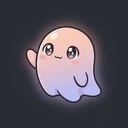
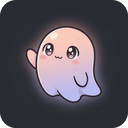
Press artist/album to go to page
v3.4.3
Slightly edited macOS icon
Also fixed issue where sound wave would keep moving despite music not playing

diff --git a/lib/presentation/screens/player_screen.dart b/lib/presentation/screens/player_screen.dart
@@ -1,6 +1,7 @@
 import 'dart:io';
 import 'dart:ui';
 import 'package:flutter/foundation.dart';
+import 'package:flutter/gestures.dart';
 import 'package:flutter/material.dart';
 import 'package:flutter/rendering.dart';
 import 'package:just_audio/just_audio.dart';
@@ -12,6 +13,7 @@ import 'package:flutter_riverpod/flutter_riverpod.dart';
 import '../../models/song.dart';
 import '../../providers/providers.dart';
 import '../widgets/next_up_sheet.dart';
+import 'song_list_screen.dart';
 
 class PositionData {
   final Duration position;
@@ -38,12 +40,16 @@ class _PlayerScreenState extends ConsumerState<PlayerScreen> {
   final ScrollController _lyricsScrollController = ScrollController();
   final GlobalKey _lyricsContainerKey = GlobalKey();
   int _currentLyricIndex = -1;
+  late TapGestureRecognizer _artistRecognizer;
+  late TapGestureRecognizer _albumRecognizer;
 
   AudioPlayer get player => ref.read(audioPlayerManagerProvider).player;
 
   @override
   void initState() {
     super.initState();
+    _artistRecognizer = TapGestureRecognizer();
+    _albumRecognizer = TapGestureRecognizer();
     player.sequenceStateStream.listen((state) {
       final tag = state.currentSource?.tag;
       final String? songId = tag is MediaItem ? tag.id : null;
@@ -153,6 +159,8 @@ class _PlayerScreenState extends ConsumerState<PlayerScreen> {
   @override
   void dispose() {
     _lyricsScrollController.dispose();
+    _artistRecognizer.dispose();
+    _albumRecognizer.dispose();
     super.dispose();
   }
 
@@ -257,6 +265,52 @@ class _PlayerScreenState extends ConsumerState<PlayerScreen> {
         );
       },
     );
+  }
+
+  void _navigateToArtist(String artist) {
+    final allSongs = ref.read(songsProvider).value ?? [];
+    final artistSongs = allSongs.where((s) {
+      final songArtist = s.artist.isEmpty ? 'Unknown Artist' : s.artist;
+      return songArtist == artist;
+    }).toList();
+
+    if (artistSongs.isNotEmpty) {
+      // Close player screen first
+      Navigator.pop(context);
+
+      Navigator.push(
+        context,
+        MaterialPageRoute(
+          builder: (_) => SongListScreen(
+            title: artist,
+            songs: artistSongs,
+          ),
+        ),
+      );
+    }
+  }
+
+  void _navigateToAlbum(String album) {
+    final allSongs = ref.read(songsProvider).value ?? [];
+    final albumSongs = allSongs.where((s) {
+      final songAlbum = s.album.isEmpty ? 'Unknown Album' : s.album;
+      return songAlbum == album;
+    }).toList();
+
+    if (albumSongs.isNotEmpty) {
+      // Close player screen first
+      Navigator.pop(context);
+
+      Navigator.push(
+        context,
+        MaterialPageRoute(
+          builder: (_) => SongListScreen(
+            title: album,
+            songs: albumSongs,
+          ),
+        ),
+      );
+    }
   }
 
   Stream<PositionData> get _positionDataStream =>
@@ -596,19 +650,39 @@ class _PlayerScreenState extends ConsumerState<PlayerScreen> {
                           overflow: TextOverflow.ellipsis,
                         ),
                         const SizedBox(height: 4),
-                        Text(
-                          '${metadata.artist ?? 'Unknown Artist'} • ${metadata.album ?? 'Unknown Album'}',
-                          style: TextStyle(
-                            fontSize: 16,
-                            fontWeight: FontWeight.w500,
-                            color: Theme.of(context)
-                                .colorScheme
-                                .onSurfaceVariant
-                                .withValues(alpha: 0.7),
-                          ),
+                        RichText(
                           textAlign: TextAlign.center,
                           maxLines: 1,
                           overflow: TextOverflow.ellipsis,
+                          text: TextSpan(
+                            style: TextStyle(
+                              fontSize: 16,
+                              fontWeight: FontWeight.w500,
+                              fontFamily: Theme.of(context)
+                                  .textTheme
+                                  .bodyMedium
+                                  ?.fontFamily,
+                              color: Theme.of(context)
+                                  .colorScheme
+                                  .onSurfaceVariant
+                                  .withValues(alpha: 0.7),
+                            ),
+                            children: [
+                              TextSpan(
+                                text: metadata.artist ?? 'Unknown Artist',
+                                recognizer: _artistRecognizer
+                                  ..onTap = () => _navigateToArtist(
+                                      metadata.artist ?? 'Unknown Artist'),
+                              ),
+                              const TextSpan(text: ' • '),
+                              TextSpan(
+                                text: metadata.album ?? 'Unknown Album',
+                                recognizer: _albumRecognizer
+                                  ..onTap = () => _navigateToAlbum(
+                                      metadata.album ?? 'Unknown Album'),
+                              ),
+                            ],
+                          ),
                         ),
                       ],
                       const SizedBox(height: 32),

diff --git a/lib/presentation/widgets/song_list_item.dart b/lib/presentation/widgets/song_list_item.dart
@@ -1,5 +1,6 @@
 import 'package:flutter/material.dart';
 import 'package:flutter_riverpod/flutter_riverpod.dart';
+import 'package:just_audio/just_audio.dart';
 import '../../models/song.dart';
 import '../../providers/providers.dart';
 import '../../providers/settings_provider.dart';
@@ -87,22 +88,33 @@ class SongListItem extends ConsumerWidget {
                     ),
                     if (isPlaying)
                       Positioned.fill(
-                        child: Container(
-                          decoration: BoxDecoration(
-                            color: Colors.black.withValues(alpha: 0.4),
-                            borderRadius: BorderRadius.circular(8),
-                          ),
-                          child: Center(
-                            child: settings.visualizerEnabled
-                                ? const AudioVisualizer(
-                                    color: Colors.white,
-                                    width: 24,
-                                    height: 24,
-                                    isPlaying: true,
-                                  )
-                                : const Icon(Icons.graphic_eq,
-                                    color: Colors.white, size: 24),
-                          ),
+                        child: StreamBuilder<PlayerState>(
+                          stream: ref
+                              .read(audioPlayerManagerProvider)
+                              .player
+                              .playerStateStream,
+                          builder: (context, snapshot) {
+                            final playing = snapshot.data?.playing ?? false;
+                            if (!playing) return const SizedBox.shrink();
+
+                            return Container(
+                              decoration: BoxDecoration(
+                                color: Colors.black.withValues(alpha: 0.4),
+                                borderRadius: BorderRadius.circular(8),
+                              ),
+                              child: Center(
+                                child: settings.visualizerEnabled
+                                    ? const AudioVisualizer(
+                                        color: Colors.white,
+                                        width: 24,
+                                        height: 24,
+                                        isPlaying: true,
+                                      )
+                                    : const Icon(Icons.graphic_eq,
+                                        color: Colors.white, size: 24),
+                              ),
+                            );
+                          },
                         ),
                       ),
                   ],

diff --git a/lib/presentation/screens/profile_screen.dart b/lib/presentation/screens/profile_screen.dart
@@ -316,7 +316,7 @@ class _ProfileScreenState extends ConsumerState<ProfileScreen> {
                     ),
                     const SizedBox(height: 24),
                     const Text(
-                      "Gru Songs v3.4.2",
+                      "Gru Songs v3.4.3",
                       style: TextStyle(
                         fontSize: 14,
                         color: Colors.grey,

diff --git a/update_version.py b/update_version.py
@@ -19,7 +19,7 @@ def update_version():
     new_comma = new_version.replace('.', ',')
 
     exclude_dirs = {'.git', '.dart_tool', 'build', 'ios/Pods', 'macos/Pods', '.pytest_cache', '__pycache__', '.gradle', 'backups', 'users', 'ephemeral'}
-    exclude_files = {'pubspec.lock', 'update_version.py', '.metadata'}
+    exclude_files = {'pubspec.lock', 'update_version.py', '.metadata', 'pubspec.yaml'}
 
     updated_count = 0
 

diff --git a/server/setup_wizard.py b/server/setup_wizard.py
@@ -7,7 +7,7 @@ def clear_screen():
 
 def print_header():
     print("=" * 60)
-    print("      GRU SONGS SERVER - FIRST TIME SETUP WIZARD (v3.4.2)      ")
+    print("      GRU SONGS SERVER - FIRST TIME SETUP WIZARD (v3.4.3)      ")
     print("=" * 60)
     print()
 

diff --git a/server/settings.py b/server/settings.py
@@ -3,7 +3,7 @@ from dotenv import load_dotenv
 from config_manager import config_manager
 
 class Settings:
-    VERSION: str = "3.4.2"
+    VERSION: str = "3.4.3"
 
     @property
     def BASE_DIR(self) -> str:

diff --git a/README.md b/README.md
@@ -1,4 +1,4 @@
-# Gru Songs (v3.4.2)
+# Gru Songs (v3.4.3)
 
 ## What is Gru Songs?
 Gru Songs is a simple local music player app built with Flutter, that can optionally connect to a server to sync stats.
@@ -31,7 +31,7 @@ We do have a feature to sync file names across devices :)
 </p>
 
 ## Others
-### "*Don't mind half broken features*"
+### “*Don't mind half broken features*”
 This is a vibe coded project, if features are half-broken, that is normal.
 This was originally a personal side project, so there might be leftovers of pre-configured stuff of when this was only meant for my personal use (mostly server stuff, frontend's great on this aspect)
 
